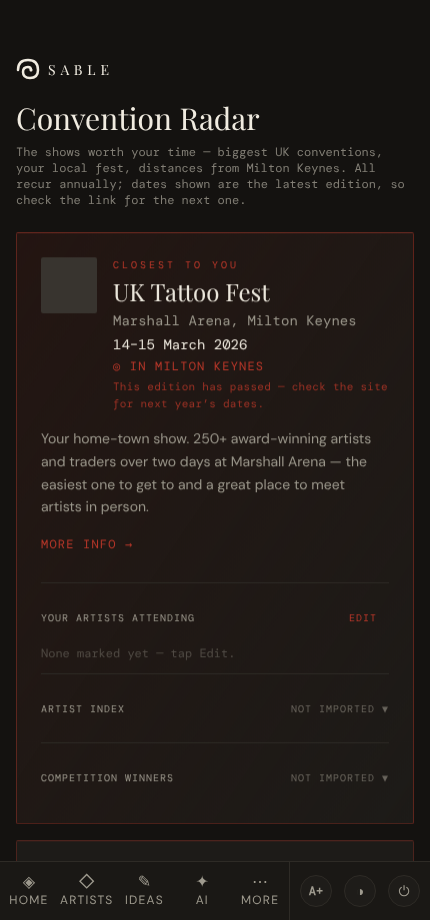
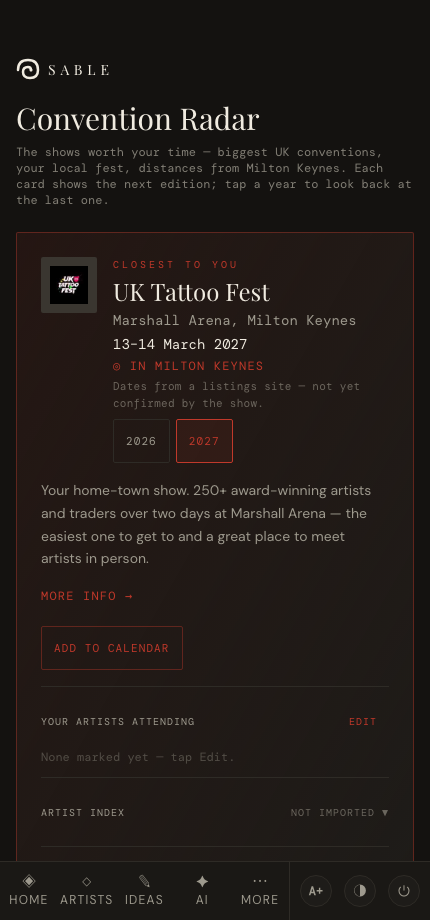
feat(radar): export shows to calendar

diff --git a/src/pages/Conventions.jsx b/src/pages/Conventions.jsx
@@ -6,6 +6,7 @@ import { parseLineupHash } from '../data/lineupGrabber'
 import { mergeWinnerEntries, winnerKey } from '../data/winners'
 import { deletePhoto, newPhotoId, putPhoto, withPhotoId, withoutPhotoId } from '../data/winnerPhotos'
 import { createArtist } from '../data/artists'
+import { buildIcs, requestCalendarDownload } from '../data/calendar'
 import ConventionLineup from '../components/ConventionLineup'
 import ConventionWinners from '../components/ConventionWinners'
 import Logo from '../components/Logo'
@@ -114,6 +115,21 @@ function artistLabel(a) {
   return a.name || `@${a.handle}`
 }
 
+function CalendarAction({ convention, current, past, onAddCalendar }) {
+  if (!current || past || !convention.startDate || !convention.endDate) return null
+  return (
+    <div className="mt-2">
+      <button
+        type="button"
+        onClick={() => onAddCalendar(convention)}
+        className="inline-flex items-center min-h-11 px-3 text-[0.6875rem] font-mono text-accent tracking-widest uppercase border border-accent/40 rounded-xs hover:border-accent hover:text-accent-hover transition-colors focus-visible:outline-2 focus-visible:outline-offset-2 focus-visible:outline-accent"
+      >
+        Add to calendar
+      </button>
+    </div>
+  )
+}
+
 // Lets you record which of your saved artists are appearing at a convention.
 // (Manual for now — automatic look-up is on the backlog.)
 function AttendeesEditor({ artists, attendingIds, onToggle, record = false }) {
@@ -175,7 +191,7 @@ function AttendeesEditor({ artists, attendingIds, onToggle, record = false }) {
   )
 }
 
-function HeroCard({ convention, past, current, onPickYear, artists, attendingIds, onToggle, lineupProps, winnerProps }) {
+function HeroCard({ convention, past, current, onPickYear, onAddCalendar, artists, attendingIds, onToggle, lineupProps, winnerProps }) {
   return (
     <div id={`convention-${convention.id}`} className="bg-gradient-to-br from-accent/10 to-ink-card border border-accent/40 rounded-xs p-6 animate-slide-up">
       <div className="flex items-start gap-4">
@@ -203,6 +219,7 @@ function HeroCard({ convention, past, current, onPickYear, artists, attendingIds
           More info →
         </a>
       )}
+      <CalendarAction convention={convention} current={current} past={past} onAddCalendar={onAddCalendar} />
       <AttendeesEditor key={`att-${convention.editionKey}`} artists={artists} attendingIds={attendingIds} onToggle={onToggle} record={!current} />
       <ConventionLineup
         key={`lineup-${convention.editionKey}`}
@@ -222,7 +239,7 @@ function HeroCard({ convention, past, current, onPickYear, artists, attendingIds
   )
 }
 
-function ConventionCard({ convention, past, current, onPickYear, artists, attendingIds, onToggle, lineupProps, winnerProps }) {
+function ConventionCard({ convention, past, current, onPickYear, onAddCalendar, artists, attendingIds, onToggle, lineupProps, winnerProps }) {
   return (
     <div
       id={`convention-${convention.id}`}
@@ -262,6 +279,7 @@ function ConventionCard({ convention, past, current, onPickYear, artists, attend
           More info →
         </a>
       )}
+      <CalendarAction convention={convention} current={current} past={past} onAddCalendar={onAddCalendar} />
       <AttendeesEditor key={`att-${convention.editionKey}`} artists={artists} attendingIds={attendingIds} onToggle={onToggle} record={!current} />
       <ConventionLineup
         key={`lineup-${convention.editionKey}`}
@@ -290,6 +308,7 @@ export default function Conventions({
   setConventionLineups = () => {},
   conventionWinners = {},
   setConventionWinners = () => {},
+  downloadCalendar = requestCalendarDownload,
   // Injected by tests; the app always renders against the real clock.
   now = new Date(),
 }) {
@@ -495,6 +514,15 @@ export default function Conventions({
       current: view.editionKey === c.editionKey,
       past: isPastEdition(view, now),
       onPickYear: (year) => setYears((prev) => ({ ...prev, [c.id]: year })),
+      onAddCalendar: (edition) => {
+        const handles = artists.filter((a) => edition.attendingArtistIds.includes(a.id) && a.handle)
+          .map((a) => `@${a.handle}`)
+        const description = [edition.url, handles.length ? `Seeing: ${handles.join(', ')}` : ''].filter(Boolean).join('\n')
+        downloadCalendar(buildIcs([{
+          title: edition.name, location: edition.location,
+          startDate: edition.startDate, endDate: edition.endDate, description,
+        }]), `sable-${edition.id}-${edition.year}.ics`)
+      },
       artists,
       attendingIds: view.attendingArtistIds,
       onToggle: (artistId) => toggle(view.editionKey, artistId),

diff --git a/src/data/calendar.js b/src/data/calendar.js
@@ -1,0 +1,90 @@
+import { randomId } from './randomId'
+
+const CRLF = '\r\n'
+const encoder = new TextEncoder()
+
+function escapeText(value) {
+  return String(value ?? '').replace(/\\/g, '\\\\').replace(/\r\n|\r|\n/g, '\\n').replace(/,/g, '\\,').replace(/;/g, '\\;')
+}
+
+function dateParts(value) {
+  if (typeof value !== 'string' || !/^\d{4}-\d{2}-\d{2}$/.test(value)) throw new Error('Invalid calendar date')
+  const date = new Date(`${value}T00:00:00Z`)
+  if (Number.isNaN(date.getTime()) || date.toISOString().slice(0, 10) !== value) throw new Error('Invalid calendar date')
+  return date
+}
+
+function dateValue(date) {
+  return date.toISOString().slice(0, 10).replace(/-/g, '')
+}
+
+function timestamp(date) {
+  if (!(date instanceof Date) || Number.isNaN(date.getTime())) throw new Error('Invalid calendar time')
+  return date.toISOString().replace(/[-:]/g, '').replace(/\.\d{3}Z$/, 'Z')
+}
+
+// Fold by UTF-8 octets, not JavaScript string length; never divide a code point.
+function fold(line) {
+  const lines = ['']
+  let bytes = 0
+  for (const glyph of line) {
+    const size = encoder.encode(glyph).length
+    if (bytes + size > 75) {
+      lines.push(' ')
+      bytes = 1
+    }
+    lines[lines.length - 1] += glyph
+    bytes += size
+  }
+  return lines.join(CRLF)
+}
+
+/** Build an offline RFC 5545 calendar. Date-only events are inclusive in input. */
+export function buildIcs(events, { now = new Date(), idFactory = randomId } = {}) {
+  if (!Array.isArray(events) || events.length === 0) throw new Error('No calendar events')
+  const lines = ['BEGIN:VCALENDAR', 'VERSION:2.0', 'PRODID:-//Sable//Calendar Export//EN', 'CALSCALE:GREGORIAN']
+  const stamp = timestamp(now)
+  for (const event of events) {
+    if (!event || typeof event.title !== 'string' || !event.title.trim()) throw new Error('Invalid calendar event')
+    let start
+    let end
+    if (event.startDate || event.endDate) {
+      const first = dateParts(event.startDate)
+      const last = dateParts(event.endDate)
+      if (last < first) throw new Error('Invalid calendar date range')
+      last.setUTCDate(last.getUTCDate() + 1)
+      start = `DTSTART;VALUE=DATE:${dateValue(first)}`
+      end = `DTEND;VALUE=DATE:${dateValue(last)}`
+    } else {
+      const first = new Date(event.startAt)
+      const last = new Date(event.endAt)
+      if (Number.isNaN(first.getTime()) || Number.isNaN(last.getTime()) || last <= first) throw new Error('Invalid calendar time range')
+      start = `DTSTART:${timestamp(first)}`
+      end = `DTEND:${timestamp(last)}`
+    }
+    lines.push('BEGIN:VEVENT', `UID:${idFactory()}@sable.local`, `DTSTAMP:${stamp}`, `SUMMARY:${escapeText(event.title)}`)
+    if (event.location) lines.push(`LOCATION:${escapeText(event.location)}`)
+    if (event.description) lines.push(`DESCRIPTION:${escapeText(event.description)}`)
+    lines.push(start, end, 'END:VEVENT')
+  }
+  lines.push('END:VCALENDAR')
+  return `${lines.map(fold).join(CRLF)}${CRLF}`
+}
+
+// Initiation of a download is observable; Safari consumption is not.
+export function requestCalendarDownload(ics, filename) {
+  const url = URL.createObjectURL(new Blob([ics], { type: 'text/calendar;charset=utf-8' }))
+  const link = document.createElement('a')
+  try {
+    link.href = url
+    link.download = filename
+    document.body.append(link)
+    link.click()
+  } catch (error) {
+    URL.revokeObjectURL(url)
+    throw error
+  } finally {
+    link.remove()
+  }
+  setTimeout(() => URL.revokeObjectURL(url), 60_000)
+}

diff --git a/src/test/calendar.test.js b/src/test/calendar.test.js
@@ -1,0 +1,38 @@
+import { describe, expect, it } from 'vitest'
+import { buildIcs } from '../data/calendar'
+
+const fixed = { now: new Date('2026-11-07T12:34:56Z'), idFactory: () => 'fixture-id' }
+const event = {
+  title: 'Tattoo Freeze', location: 'Telford International Centre',
+  startDate: '2027-01-30', endDate: '2027-01-31',
+  description: 'https://www.tattoofreeze.com/\nSeeing: @zoia.ink',
+}
+
+describe('buildIcs', () => {
+  it('matches a complete golden all-day event', () => {
+    expect(buildIcs([event], fixed)).toBe([
+      'BEGIN:VCALENDAR', 'VERSION:2.0', 'PRODID:-//Sable//Calendar Export//EN', 'CALSCALE:GREGORIAN',
+      'BEGIN:VEVENT', 'UID:fixture-id@sable.local', 'DTSTAMP:20261107T123456Z',
+      'SUMMARY:Tattoo Freeze', 'LOCATION:Telford International Centre',
+      'DESCRIPTION:https://www.tattoofreeze.com/\\nSeeing: @zoia.ink',
+      'DTSTART;VALUE=DATE:20270130', 'DTEND;VALUE=DATE:20270201',
+      'END:VEVENT', 'END:VCALENDAR', '',
+    ].join('\r\n'))
+  })
+
+  it('escapes text and folds UTF-8 lines at 75 octets without splitting a glyph', () => {
+    const text = buildIcs([{ ...event, title: `Ink, art; \\ and\n${'🐉'.repeat(32)}` }], fixed)
+    const lines = text.split('\r\n')
+    expect(lines.every((line) => new TextEncoder().encode(line).length <= 75)).toBe(true)
+    expect(text).toContain('SUMMARY:Ink\\, art\\; \\\\ and\\n')
+    expect(text.replace(/\r\n /g, '')).toContain('🐉'.repeat(32))
+    expect(text).not.toMatch(/(?<!\r)\n/)
+  })
+
+  it('uses an exclusive end across leap day and rejects unknown dates', () => {
+    const leap = buildIcs([{ ...event, startDate: '2028-02-29', endDate: '2028-02-29' }], fixed)
+    expect(leap).toContain('DTEND;VALUE=DATE:20280301')
+    expect(() => buildIcs([{ ...event, startDate: null }], fixed)).toThrow()
+    expect(() => buildIcs([{ ...event, startDate: '2027-02-30' }], fixed)).toThrow()
+  })
+})

diff --git a/src/test/Conventions.test.jsx b/src/test/Conventions.test.jsx
@@ -160,6 +160,31 @@ describe('Conventions editions', () => {
     expect(cardFor(freeze).getByText(/not yet confirmed/i)).toBeInTheDocument()
     expect(cardFor(bigLondonShow).queryByText(/not yet confirmed/i)).toBeNull()
   })
+
+  it('downloads the visible upcoming edition with its own attendees, not last year’s', () => {
+    const downloadCalendar = vi.fn()
+    renderConventions({
+      downloadCalendar,
+      conventionOverrides: { 'uk-tattoo-fest@2026': ['zoia.ink'], 'uk-tattoo-fest@2027': ['oscarakermo'] },
+    })
+    const card = cardFor(localConv)
+    fireEvent.click(card.getByRole('button', { name: 'Add to calendar' }))
+    expect(downloadCalendar).toHaveBeenCalledTimes(1)
+    const [ics, filename] = downloadCalendar.mock.calls[0]
+    expect(filename).toBe('sable-uk-tattoo-fest-2027.ics')
+    expect(ics).toContain('DTSTART;VALUE=DATE:20270313')
+    expect(ics).toContain('DTEND;VALUE=DATE:20270315')
+    expect(ics).toContain('Seeing: @oscarakermo')
+    expect(ics).not.toContain('zoia.ink')
+    expect(ics).toContain('https://www.uktattoofest.co.uk/')
+    fireEvent.click(card.getByRole('button', { name: /2026/ }))
+    expect(card.queryByRole('button', { name: 'Add to calendar' })).toBeNull()
+  })
+
+  it('omits the action for a TBC edition without known days', () => {
+    renderConventions()
+    expect(cardFor(bigLondonShow).queryByRole('button', { name: 'Add to calendar' })).toBeNull()
+  })
 })
 
 // The Big London Tattoo Show publishes ~500 artists; the index makes that list

diff --git a/e2e/calendar.desktop.e2e.js b/e2e/calendar.desktop.e2e.js
@@ -1,0 +1,27 @@
+import { test, expect, openDemo } from './fixtures'
+
+test('downloads an all-day show event for the visible 2027 edition', async ({ page }) => {
+  await page.clock.setFixedTime(new Date('2026-11-07T12:00:00Z'))
+  await page.addInitScript(() => {
+    const original = URL.createObjectURL
+    URL.createObjectURL = function (blob) {
+      if (blob.type.startsWith('text/calendar')) window.__calendarBlobType = blob.type
+      return original.call(this, blob)
+    }
+  })
+  await openDemo(page, '/conventions')
+  const card = page.getByRole('heading', { name: 'UK Tattoo Fest' }).locator('xpath=ancestor::div[contains(@class,"animate-slide-up")]')
+  const [download] = await Promise.all([
+    page.waitForEvent('download'),
+    card.getByRole('button', { name: 'Add to calendar' }).click(),
+  ])
+  expect(download.suggestedFilename()).toBe('sable-uk-tattoo-fest-2027.ics')
+  expect(await page.evaluate(() => window.__calendarBlobType)).toBe('text/calendar;charset=utf-8')
+  const chunks = []
+  for await (const chunk of await download.createReadStream()) chunks.push(chunk)
+  const ics = Buffer.concat(chunks).toString('utf8')
+  expect(ics).toContain('DTSTART;VALUE=DATE:20270313\r\n')
+  expect(ics).toContain('DTEND;VALUE=DATE:20270315\r\n')
+  expect(ics).toContain('SUMMARY:UK Tattoo Fest\r\n')
+  expect(ics).toContain('LOCATION:Marshall Arena\\, Milton Keynes\r\n')
+})

diff --git a/src/pages/Help.jsx b/src/pages/Help.jsx
@@ -84,6 +84,7 @@ const SECTIONS = [
     steps: [
       'Drawer → Radar lists conventions, nearest to Milton Keynes first, with dates, distance and a link to each event.',
       'Each card opens on the next edition of the show. Tap a year under the dates to switch: attendance, the artist index and the winners all belong to that year, and an earlier edition is kept as a record of who was there.',
+      'For an upcoming edition with known days, tap Add to calendar to download an all-day .ics event with the venue, show link and the saved artists you marked as attending that year. TBC dates and past editions have no calendar button. Check unconfirmed dates with the show before travel.',
       'Dates a show hasn’t confirmed yet say so ("not yet confirmed by the show", or the usual month with TBC), so check the show’s site before booking travel. Once the latest edition is over, the card says "This edition has passed".',
       'On each convention card, tap Edit under "Your artists attending" to toggle which of your saved artists are appearing there.',
       'Where an artist is attending a convention, you will see it on their detail card and on the Pipeline page.',

diff --git a/docs/05-conventions-and-studios.md b/docs/05-conventions-and-studios.md
@@ -16,6 +16,14 @@ closest show is highlighted as a hero card at the top.
 Each card shows the venue, dates, distance from Milton Keynes, a short summary, and a link
 to the event's site. Popular shows are marked with a ★.
 
+**Add to calendar.** An upcoming edition with announced days has **Add to calendar**
+on its card. It downloads an all-day `.ics` event for the year shown, including the
+venue, the show's web address (when known), and any saved artists you marked as
+attending that edition. Month-only *(TBC)* dates and past editions have no button.
+The file is made on your device; Sable does not get access to your calendar. Check
+unconfirmed dates with the show before making travel plans. On an installed iPhone
+PWA, the Calendar hand-off still needs checking on a real phone.
+
 **Mark who's going.** Each card has a *Your artists attending* line — tap **Edit** to toggle
 which of your saved artists are appearing at that edition of the show. Those names then surface on the
 artist's detail card, on the Pipeline page, and next to the artist in idea matches. (Automatic look-up is
